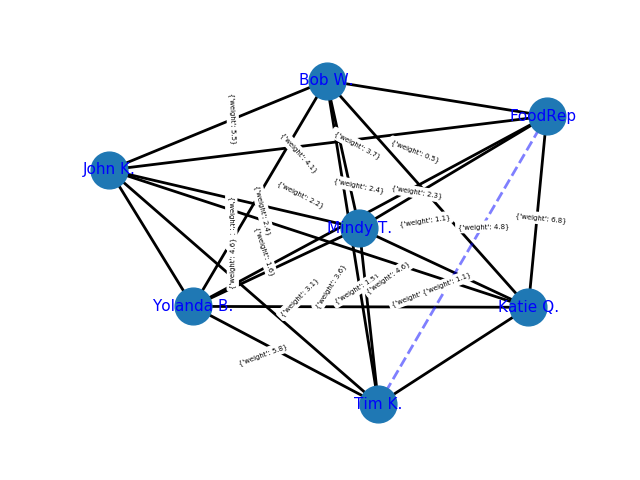
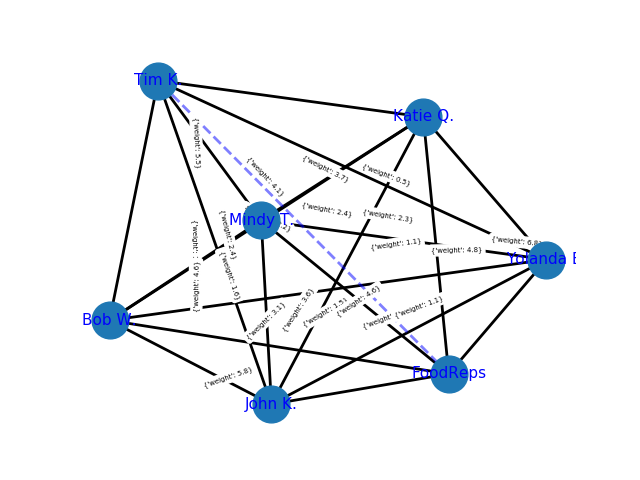
Cleaned up PathPage.py

Changed region(s): [[0.125, 0.125, 0.9062, 0.9062], [0.2812, 0.75, 0.375, 0.8125]]

diff --git a/PathPage.py b/PathPage.py
@@ -3,10 +3,8 @@
 # create a real-world dataset and scenario to assist with product deliveries, by implementing an Euler circult
 # within a graph of the delivery path.
 
-# Reference when starting the project: https://www.youtube.com/watch?v=1ErL1z_lKd8&t=219s
-# I created a txt file with nodes and edge data to pull from (DistanceDataSet.txt), but the nodes and edges can
-# be created within the code also
-# (reference: https://networkx.github.io/documentation/networkx-1.10/tutorial/tutorial.html)
+# Please note that all node degrees are even, and this is actually checked within the code below to ensure an
+# Euler's circuit / Eulerian Graph.
 
 import networkx as nx
 import matplotlib.pyplot as plt
@@ -31,7 +29,7 @@ startBlack = "\033[30m"
 # creating the variable G as the graph-theoretic function using the Networkx library
 G = nx.Graph()
 
-# Adding more nodes and weights to the dataset variable G
+# Adding more nodes and weights to the dataset variable G using the 3-tuple (u, v, w) for uniform, value, weights)
 # reference: https://networkx.github.io/documentation/networkx-1.10/tutorial/tutorial.html
 G.add_weighted_edges_from([('FoodReps', 'John K.', 1.2), ('FoodReps', 'Katie Q.', 3.7),
                            ('FoodReps', 'Mindy T.', 4.1), ('FoodReps', 'Bob W.', 5.5),
@@ -45,46 +43,18 @@ G.add_weighted_edges_from([('FoodReps', 'John K.', 1.2), ('FoodReps', 'Katie Q.'
                            ('Mindy T.', 'Tim K.', 4.8),
                            ('Bob W.', 'Yolanda B.', 1.6), ('Bob W.', 'Tim K.', 2.3),
                            ('Yolanda B.', 'Tim K.', 1.1)])
+
+print(startPurple + '\n----------------------------------------- Graph Information '
+                      'Graph -----------------------------------------' + endColor, '\n')
+
 # Placing the updated dataset information as output
-print('\nDataset information after adding more node and distance sets:\n', nx.info(G))
-
-# Ending the color magenta as background
-print(endColor)
-
+print(startBlue + '\nDataset information after adding more node and distance sets:\n' + endColor, nx.info(G))
 print(startBlue + '\nNumber of nodes:' + endColor, nx.number_of_nodes(G))
 print(startBlue + '\nNumber of edges:' + endColor, nx.number_of_edges(G))
 # Basically, for directed, does direction matter in the graph?
 # Otherwise, for undirected, can the node pairs go in either direction?
 # reference: https://stackoverflow.com/questions/23956467/what-is-the-difference-between-a-directed-and-undirected-graph
 print(startBlue + '\nIs the graph directed?' + endColor, nx.is_directed(G))
-
-
-# reference for below weighted graph code:
-# https://networkx.github.io/documentation/networkx-1.10/examples/drawing/weighted_graph.html
-elarge = [(u, v) for (u, v, d) in G.edges(data=True) if d['weight'] >0.5]
-esmall = [(u, v) for (u, v, d) in G.edges(data=True) if d['weight'] <=0.5]
-
-pos=nx.spring_layout(G) # positions for all nodes
-
-# nodes
-nx.draw_networkx_nodes(G, pos, node_size=700)
-
-# edges
-nx.draw_networkx_edges(G, pos, edgelist=elarge, width=2)
-nx.draw_networkx_edges(G, pos, edgelist=esmall, width=2, alpha=0.5, edge_color='b', style='dashed')
-
-# labels
-nx.draw_networkx_labels(G, pos, font_size=11, font_family='sans-serif', font_color='blue')
-nx.draw_networkx_edge_labels(G, pos=nx.spectral_layout(G), font_size=5)
-
-plt.axis('off')
-plt.savefig("weighted_graph.png") # save as png
-plt.tight_layout(True)
-plt.suptitle('Original Distance Model (miles)')
-plt.show() # display
-
-
-
 
 
 print(startPurple + '\n----------------------------------------- Algorithmic Path Experiments with Data, Original '
@@ -98,12 +68,7 @@ print(startBlue + '\nShortest path from FoodReps to Mindy T.:\n'+ endColor, nx.d
 
 # Eulerian:
 # reference: https://networkx.github.io/documentation/stable/reference/algorithms/euler.html
-# Use-Case example: "The purpose of the proposed new roads is to make the town mailman-friendly. In graph theory terms,
-# we want to change the graph so it contains an Euler circuit. This is also referred to as Eulerizing a graph. The
-# most mailman-friendly graph is the one with an Euler circuit since it takes the mailman back to the starting point.
-# This means that the mailman can leave his car at one intersection, walk the route hitting all the streets just once,
-# and end up where he began. There is no backtracking or walking of streets twice. This saves him time."
-# reference: https://study.com/academy/lesson/eulerizing-graphs-in-math.html
+
 print(startBlue + '\nHas Eulerian path:\n'+ endColor, nx.has_eulerian_path(G))
 print(startBlue + '\nIs semi-Eulerian:\n'+ endColor, nx.is_semieulerian(G))
 # Shortest paths (Bellman Ford):
@@ -125,18 +90,9 @@ print(startBlue + '\nBellman Ford path from FoodReps:\n'+ endColor,
 print(startBlue + '\nThe Modularity Spectrum that returns eigenvalues of the modularity matrix of G:\n' +
       endColor, nx.modularity_spectrum(G))
 
+# -------------------------------- Creating the Eulerian Graph for Visualization --------------------------------
 
-
-
-print(startCyan + '\n----------------------------------------- Transforming Graph into Eulerian Graph' +
-      '-----------------------------------------' + endColor, '\n')
 # reference: https://networkx.github.io/documentation/stable/reference/algorithms/euler.html
-# Use-Case example: The purpose of the proposed new roads is to make the town mailman-friendly. In graph theory terms,
-# we want to change the graph so it contains an Euler circuit. This is also referred to as Eulerizing a graph. The
-# most mailman-friendly graph is the one with an Euler circuit since it takes the mailman back to the starting point.
-# This means that the mailman can leave his car at one intersection, walk the route hitting all the streets just once,
-# and end up where he began. There is no backtracking or walking of streets twice. This saves him time.
-# reference: https://study.com/academy/lesson/eulerizing-graphs-in-math.html
 
 # reference for below weighted graph code:
 # https://networkx.github.io/documentation/networkx-1.10/examples/drawing/weighted_graph.html
@@ -161,13 +117,10 @@ nx.eulerize(G)
 plt.axis('off')
 plt.savefig("weighted_graph.png") # save as png
 plt.tight_layout(True)
-plt.suptitle('Eulerized Graph, Distance Model (miles)')
+plt.suptitle('Eulerized Graph, FoodReps paths (miles)')
 plt.show() # display
 
-print(startGreen + '-------------                           Algorithmic Path Experiments post-Eulerian Graph' +
-      '                      -------------' + endColor, '\n')
 
-print(startBlue + '\nShortest path from FoodReps to Mindy T.:\n'+ endColor, nx.dijkstra_path(G, 'FoodReps', 'Mindy T.'))
 
 
 
